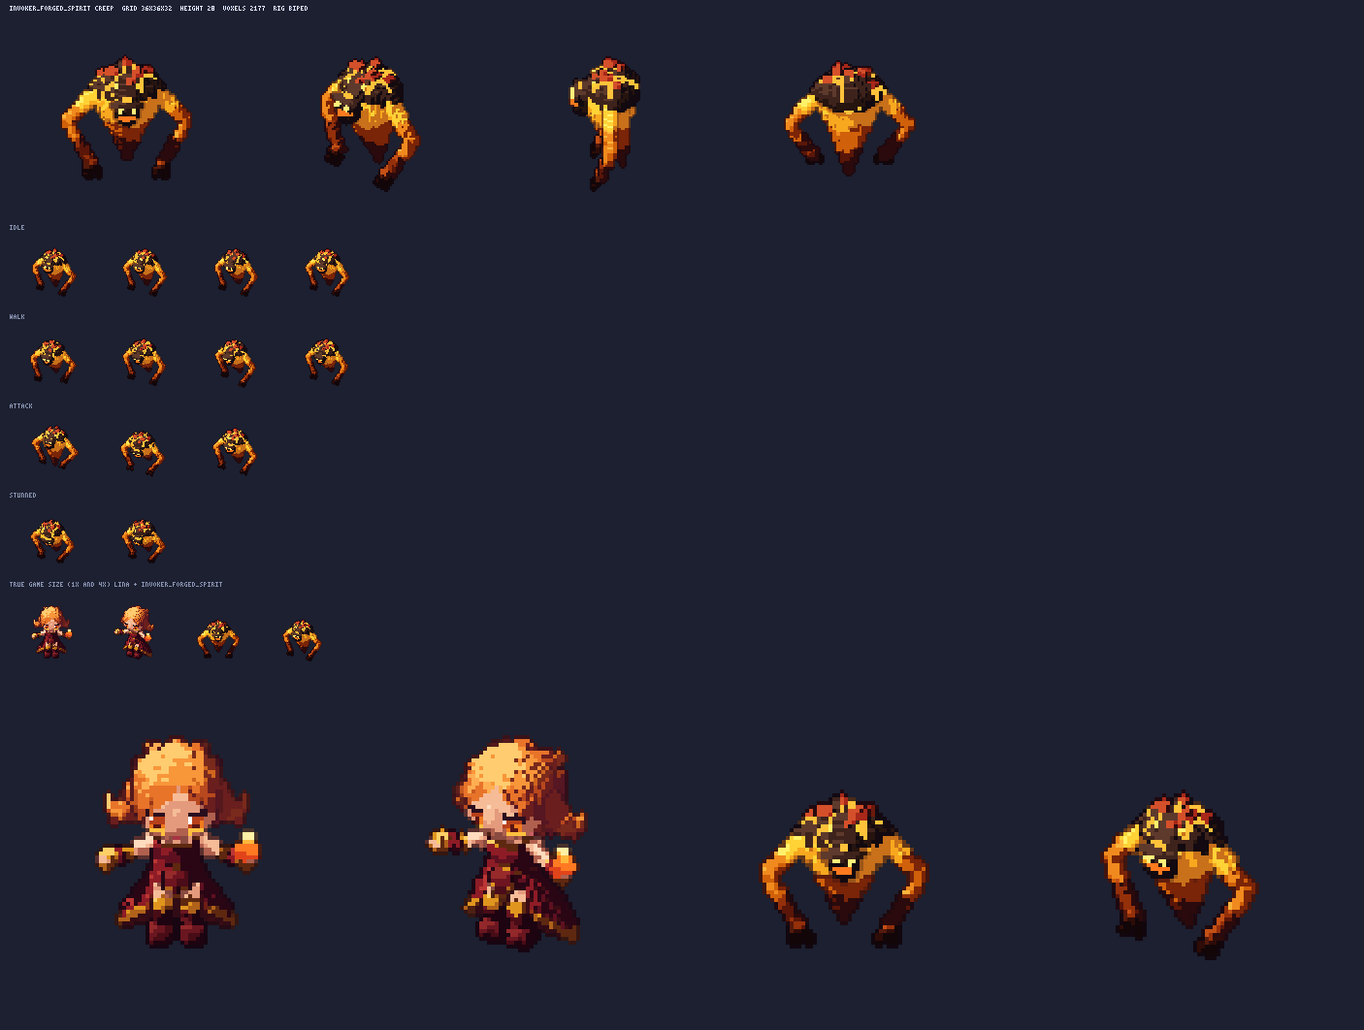
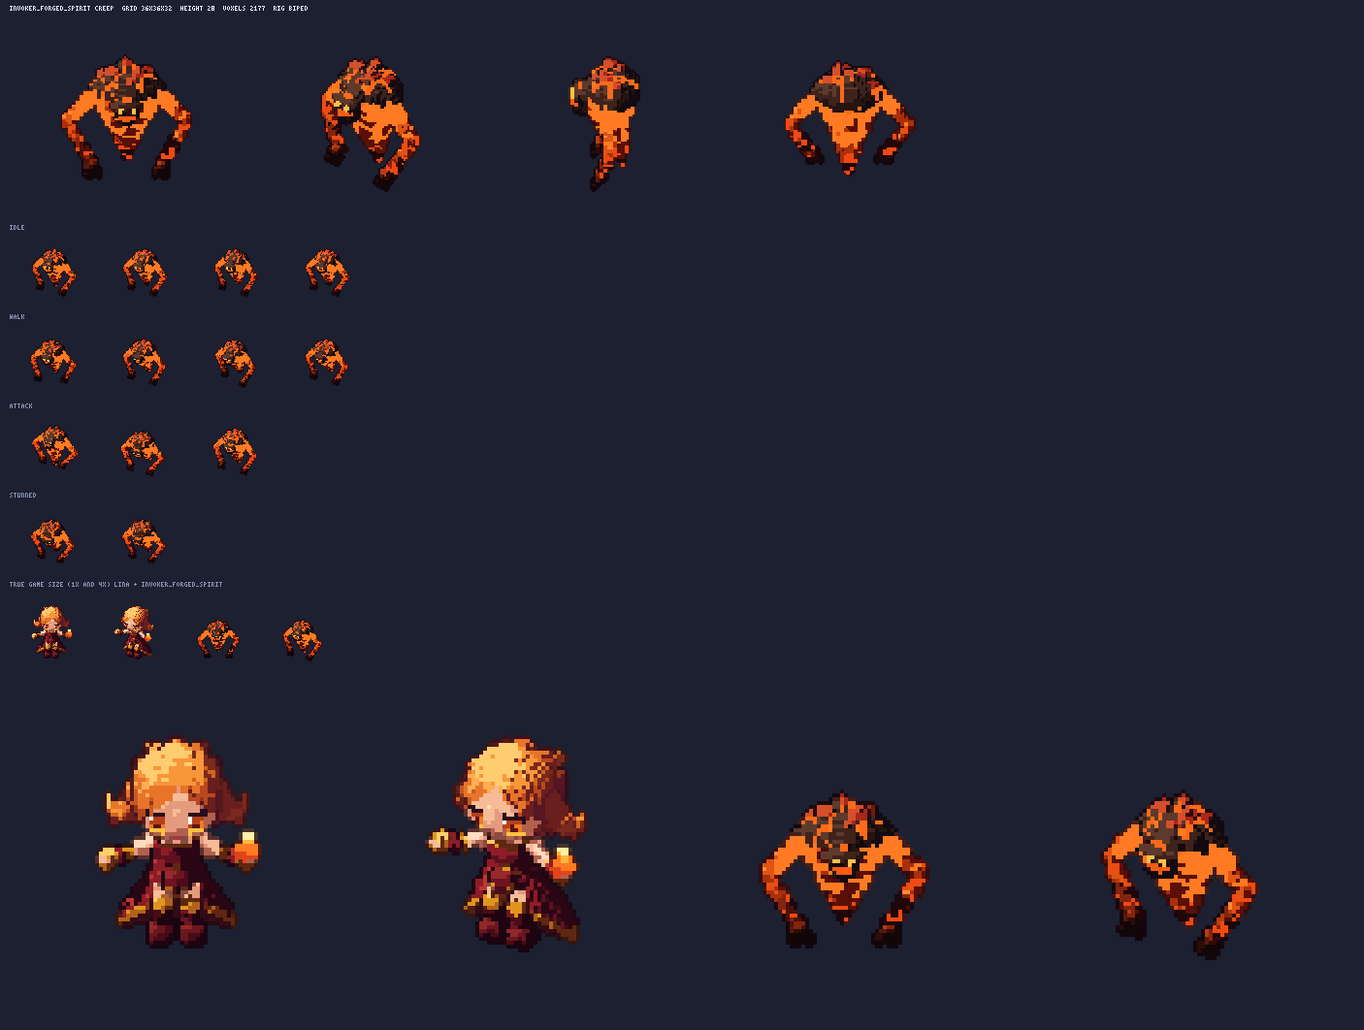
Invoker: blond swept-back mane, lower collar; Forged Spirit: emissive lava body
Invoker mesh 3,090,096 -> 2,749,536 B (limit 3,145,728). Spirit lava core and
veins are emissive (signature tier), mustard ramps gone. Registry `night`
option on voxactors adds emissive gain at night (Spirit 0.25).

diff --git a/shared/vox/heroes/invoker.js b/shared/vox/heroes/invoker.js
@@ -1,8 +1,9 @@
-// Voxel Invoker, a chibi of his Dota 2 model (hand-authored): a bald, pointed-eared head framed by a tall spiky crimson-magenta collar that flares
-// up and back above the head; gold spiked pauldrons; orange-gold sleeves, open hands held in front (conjuring); a cream plastron with gold bands
-// and a gold button strip; a huge cream coat-cape from the shoulders to the floor, open in front over a dark purple-black robe, gold trim on every
-// edge; black boots. Signature reads: crimson collar fan around a bald head, cream cape bell silhouette, gold + orange arms in front, dark robe
-// split. The orbs are FX (client/src/render/fx/status.js), not voxels. Grid 40 x 40 x 48, ~44 voxels tall to the collar points, faces -y.
+// Voxel Invoker, a chibi of his Dota 2 model (hand-authored): pointed-eared head with long golden-blond hair swept back from a high widow's peak
+// into a mane over the cape; a low crimson-magenta collar fan that frames the head at the sides and dips under the hair at the back; gold spiked
+// pauldrons; orange-gold sleeves, open hands held in front (conjuring); a cream plastron with gold bands and a gold button strip; a huge cream
+// coat-cape from the shoulders to the floor, open in front over a dark purple-black robe, gold trim on every edge; black boots. Signature reads:
+// blond swept-back mane, crimson collar fan, cream cape bell silhouette, gold + orange arms in front, dark robe split. The orbs are FX
+// (client/src/render/fx/status.js), not voxels. Grid 40 x 40 x 48, ~38 voxels tall, faces -y.
 import { Vox } from '../vox.js';
 import { useMat } from '../mats.js';
 import { solve } from '../rig.js';
@@ -31,8 +32,9 @@ export function build(p = {}) {
     robe: useMat(v, 'robe', { ramp: ['#100816', '#22142a', '#36223a', '#523a54'] }),
     collar: useMat(v, 'collar', { ramp: ['#2e0420', '#740a3e', '#a01c54', '#c84478'] }),
     collarL: useMat(v, 'collarL', { ramp: ['#3a0626', '#8a1448', '#b82c62', '#e05a88'] }),
-    hair: useMat(v, 'hair', { ramp: ['#4a2a1c', '#8a6034', '#b48a4e', '#dcb874'] }),
-    hairD: useMat(v, 'hairD', { ramp: ['#3a2018', '#6e4828', '#94703e', '#bc9a5e'] }),
+    hair: useMat(v, 'hair', { ramp: ['#6a3e1e', '#b08038', '#d8aa58', '#f2d488'] }),
+    hairL: useMat(v, 'hairL', { ramp: ['#7a4a22', '#c49444', '#e8c070', '#fce4a0'] }),
+    hairD: useMat(v, 'hairD', { ramp: ['#4e2c16', '#8a5e2c', '#b08444', '#d4ac68'] }),
     gold: useMat(v, 'gold', { ramp: ['#5e2c10', '#b06c18', '#e09e2a', '#ffd470'] }),
     sleeve: useMat(v, 'sleeve', { ramp: ['#5a2410', '#b4600e', '#e08c1c', '#ffc056'] }),
     boot: useMat(v, 'boot', { ramp: ['#0c0810', '#1e1420', '#32242e', '#4e3a42'] }),
@@ -80,8 +82,8 @@ export function build(p = {}) {
 
   // ---- the collar: a tall fan flaring up and back around the head, spiky points; crimson-magenta inside (the front read), cream + gold outside
   collar(v, T.torso, {
-    c: [cx, cy + 2.2], z0: 20.4 + U, z1: 39 + U, r0: 4.4, r1: 12.6, flare: 0.95, sy: 0.8, th: 4, lean: 0.12,
-    open0: 62, open1: 86, spikes: 2, spike: 4.2, fill: (dx, dy) => dy > 3.4,
+    c: [cx, cy + 2.2], z0: 20.4 + U, z1: 34 + U, r0: 4.4, r1: 11, flare: 0.8, sy: 0.8, th: 3, lean: 0.12,
+    open0: 62, open1: 70, spikes: 1, phase: -0.5, spike: 6, fill: (dx, dy) => dy > 3.4,
   }, (px, py, pz, f, inner) => (inner ? (f > 0.88 ? M.collarL : M.collar) : f > 0.86 ? M.gold : M.coat));
 
   // ---- arms: orange-gold sleeves with gold cuffs, open hands; gold spiked pauldrons on top
@@ -98,11 +100,25 @@ export function build(p = {}) {
     for (const [ox, oy, oz] of [[2.4, -0.8, 3.4], [3.6, 1, 1.6]]) v.capsule(c, [c[0] + s * ox, c[1] + oy, c[2] + oz], 1, M.gold, 0.35);
   }
 
-  // ---- head: high bald forehead, light-brown hair slicked back from a receding line over the crown, small pointed elf ears; posed by the head
+  // ---- head: skull + long narrow jaw, then the hair: golden blond, parted high in the middle and swept straight back over the crown into a full
+  // mane behind the head that falls to the nape (into the collar); strands run front -> back (streaks by x). Pointed elf ears poke through it.
   const Th = T.head, [hx, hy, hz] = [cx, cy + PROP.headY, PROP.headZ];
-  ell(v, Th, [hx, hy, hz], SKULL, (px, py, pz) => (py > hy + 2.2 - (pz - hz) * 0.62 ? (Math.floor(px) % 3 === 0 ? M.hairD : M.hair) : M.skin));
+  ell(v, Th, [hx, hy, hz], SKULL, M.skin);
   ell(v, Th, [hx, hy + 0.2, hz - 4.6], [3.8, 4.4, 3.4], M.skin);   // long narrow jaw
-  for (const s of [-1, 1]) cap(v, Th, [hx + s * 5.6, hy + 0.8, hz - 0.8], [hx + s * 7.8, hy + 2, hz + 1.8], 1.1, M.skin, 0.35);
+  const strand = (px, py, pz) => { const k = Math.floor((px - hx + 0.5 + Math.max(0, py - hy) * 0.18 * Math.sign(px - hx)) / 2); return [M.hair, M.hairL, M.hair, M.hairD][((k % 4) + 4) % 4]; };
+  const line = px => hz + 4.4 - Math.min(3, Math.abs(px - hx) * 0.55);   // hairline: high widow's peak, lower at the temples
+  const face = (px, py, pz) => py < hy - 1.2 + Math.max(0, hz - pz) * 0.5 && pz < line(px);   // skin window (forehead, face, in front of the ears)
+  const free = (px, py, pz, x, y, z) => { const m = v.get(x, y, z); return !m || m === M.skin; };   // never over the collar: the mane sinks into it
+  ell(v, Th, [hx, hy + 0.7, hz + 0.4], [6.3, 6.5, 7.1], strand, (px, py, pz, x, y, z) => !face(px, py, pz) && pz > hz - 3.4 && free(px, py, pz, x, y, z));
+  ell(v, Th, [hx, hy + 4, hz - 1.6], [6, 4.2, 6.4], strand, (px, py, pz, x, y, z) => py > hy + 1.5 && free(px, py, pz, x, y, z));   // the mane behind
+  // swept-back locks: thick at the crown, tapering to points that flare back past the skull and fall over the collar's back rim (long hair)
+  for (const s of [-4.6, -2.3, 0, 2.3, 4.6]) {
+    const a = [hx + s * 0.8, hy - 2.6, hz + 5.4 - Math.abs(s) * 0.4], b = [hx + s * 1.2, hy + 9.6 - Math.abs(s) * 0.25, hz - 2.6 - Math.abs(s) * 0.5];
+    cap(v, Th, a, b, 2.1, strand, 0.6);
+  }
+  // the fall: the mane lies over the collar's back rim down to the shoulder blades, pointed tips
+  ell(v, Th, [hx, hy + 6.8, hz - 0.6], [5.6, 3.8, 8.2], strand, (px, py, pz) => pz > hz - 7.4 + Math.abs(((px - hx + 40) % 2.4) - 1.2) * 1.6 + Math.abs(px - hx) * 0.35);
+  for (const s of [-1, 1]) cap(v, Th, [hx + s * 5.6, hy + 0.8, hz - 0.8], [hx + s * 8.2, hy + 2.2, hz + 2], 1.15, M.skin, 0.35);
 
   // ---- face, painted on the front-most voxels (follows the posed head): stern brow, small dark eyes, a thin mouth
   const hc = J.head, ox = Math.round(hc[0] - cx), oz = Math.round(hc[2] - hz), ez = Math.round(hz - 2) + oz;   // integer rows (paintFront indexes cells)
@@ -145,4 +161,4 @@ export const ANIMS = {
 };
 
 /** HUD portrait framing (tools/vox/portrait.mjs): idle, face in the upper third with the collar fan behind it. */
-export const PORTRAIT = { pose: ANIMS.idle[0], center: [cx, cy, 30.4], scale: 1.15, fov: 24, sig: '#c8285e', face: [4, 11, 24, 24] };
+export const PORTRAIT = { pose: ANIMS.idle[0], center: [cx, cy, 28], scale: 1.3, fov: 24, sig: '#c8285e', face: [4, 11, 24, 24] };

diff --git a/client/src/art/portraits/invoker.js b/client/src/art/portraits/invoker.js
@@ -1,7 +1,7 @@
 // GENERATED by tools/vox/portrait.mjs (invoker) -- do not edit by hand. Voxel HUD portrait 32x42 (= the 32x42 the HUD shows, 1 art px = 1 u), opaque.
 // Loaded by client/src/art/portraits.js, which swaps it into the sheet's 'portrait' frame unless ?vox=0.
 export default {
-  pal: { '0':'#28051e', '1':'#24071c', '2':'#3e3436', '3':'#49220c', '4':'#f9d6bf', '5':'#0c0611', '6':'#2e0420', '7':'#ca9886', '8':'#552435', '9':'#4c2312', '!':'#141112', '#':'#1e1518', '$':'#331b23', '%':'#d29a7e', '&':'#9a5a4c', '(':'#8e8668', ')':'#5e2c10', '*':'#2c2228', '+':'#f0c2a2', ',':'#341812', '-':'#4c4240', '/':'#b06c18', ':':'#aebcdd', ';':'#e6b89f', '<':'#f9d098', '=':'#e09e2a', '>':'#874a5e', '?':'#4f2d2d', '@':'#3a1a10', 'A':'#740a3e', 'B':'#ac7e54', 'C':'#bb5775', 'D':'#5a2410', 'E':'#eb99a2', 'F':'#a01c54', 'G':'#acbadb', 'H':'#b6b08e', 'I':'#491d12', 'J':'#30292a', 'K':'#221b1f', 'L':'#d26382', 'M':'#ead3ba', 'N':'#7a3e3a', 'O':'#321512', 'P':'#aa764e', 'Q':'#8893ac', 'R':'#3e2323', 'S':'#6f6951', 'T':'#310722', 'U':'#b182c5', 'V':'#a475bd', 'W':'#b82c62', 'X':'#9b8b7d', 'Y':'#a8664e', 'Z':'#ffffff', '[':'#7a2a30', ']':'#f9c78c', '^':'#e08c1c', '_':'#895413', 'a':'#edb761', 'b':'#935064', 'c':'#bebab8', 'd':'#aa4d6d', 'e':'#1f0619', 'f':'#a9b7d9', 'g':'#bcad91', 'h':'#b48a4e', 'i':'#240c10', 'j':'#31262e', 'k':'#bfc1e3', 'l':'#3a3036', 'm':'#9e7769', 'n':'#3b3332', 'o':'#56503e', 'p':'#2d252a', 'q':'#8e896f', 'r':'#3b1b0e', 's':'#796c62', 't':'#534e3d', 'u':'#371a09', 'v':'#b285c7', 'w':'#bfbcbc', 'x':'#d59e58', 'y':'#e08f9b', 'z':'#8a1448', '{':'#afaebc', '|':'#b89367', '}':'#adacba', '~':'#3d221b', '¡':'#a0a1b3', '¢':'#79463f', '£':'#c8866a', '¤':'#b57e6e', '¥':'#efbda2', '¦':'#412025', '§':'#bbb8ba', '¨':'#bebbba', '©':'#b4600e', 'ª':'#bfc2e3', '«':'#bfc2e4', '¬':'#c2a795', '®':'#fcd284', '¯':'#b3907c', '°':'#9395b0', '±':'#261e24', '²':'#6e6650', '³':'#8c4b0b', '´':'#8f8c8e', 'µ':'#100816', '¶':'#09050d' },
+  pal: { '0':'#341812', '1':'#3e3436', '2':'#0c0611', '3':'#5a2410', '4':'#3a2019', '5':'#e09e2a', '6':'#f0c2a2', '7':'#f9d6bf', '8':'#3a1a10', '9':'#c49444', '!':'#141112', '#':'#1e1518', '$':'#331b23', '%':'#9a5a4c', '&':'#5e2c10', '(':'#d29a7e', ')':'#8e8668', '*':'#4c4240', '+':'#2c2228', ',':'#b06c18', '-':'#b08038', '/':'#49220c', ':':'#aebcdd', ';':'#4f2d2d', '<':'#8a5e2c', '=':'#b6b08e', '>':'#30292a', '?':'#ca9886', '@':'#55311c', 'A':'#e8c070', 'B':'#a8664e', 'C':'#7a3e3a', 'D':'#7a4a22', 'E':'#6a3e1e', 'F':'#ac7e54', 'G':'#6f6951', 'H':'#552435', 'I':'#24071c', 'J':'#af8760', 'K':'#28051e', 'L':'#f9d098', 'M':'#491d12', 'N':'#3a3036', 'O':'#2d1815', 'P':'#8a1448', 'Q':'#aa764e', 'R':'#221b1f', 'S':'#d2a86d', 'T':'#f3d0a2', 'U':'#d8aa58', 'V':'#613a1f', 'W':'#740a3e', 'X':'#f5ccb1', 'Y':'#79463f', 'Z':'#bebab8', '[':'#4c2312', ']':'#321512', '^':'#3e2323', '_':'#100816', 'a':'#8e896f', 'b':'#402316', 'c':'#41261a', 'd':'#e6be94', 'e':'#ead3ba', 'f':'#ffffff', 'g':'#acbadb', 'h':'#31262e', 'i':'#7a2a30', 'j':'#f9c78c', 'k':'#e6b89f', 'l':'#b99168', 'm':'#deb679', 'n':'#d26382', 'o':'#bb5775', 'p':'#bdc2cf', 'q':'#b57e6e', 'r':'#e08c1c', 's':'#b4600e', 't':'#56503e', 'u':'#2d252a', 'v':'#3b1b0e', 'w':'#796c62', 'x':'#1a1417', 'y':'#371a09', 'z':'#e6bd7d', '{':'#f8d7ad', '|':'#bebbba', '}':'#310722', '~':'#bfbcbb', '¡':'#b0bedf', '¢':'#bbb8ba', '£':'#a9b7d9', '¤':'#bfc2e3', '¥':'#bfc3e5', '¦':'#fcc471', '§':'#bfc1e3', '¨':'#ffd470', '©':'#9395b0', 'ª':'#261e24', '«':'#6e6650', '¬':'#895413', '®':'#b7b4b6', '¯':'#bdbfe1', '°':'#c2a795', '±':'#8893ac', '²':'#9b8b7d', '³':'#6a6653', '´':'#2c2625', 'µ':'#09050d' },
   face: [4, 11, 24, 24],
   rows: [
     '!!!!!!!!!!!#!#!#!#######!#!#!!!!',
@@ -11,40 +11,40 @@ export default {
     '!!!!!!!#!######$#$#$#$#$######!#',
     '!!!!!!#!####$#$$$$$$$$$$$#$#####',
     '!!!!!#!#!####$#$$$$$$$$$$$#$####',
-    '!!!!#!####$#$$$$8$8$8$8$8$$#$###',
-    '!!!,11111##$#$$$$1$8$8$8$$$$####',
-    '!,,9TTCCE1,,118$1v11,8111,,$$#$#',
-    ',waaCETCbE99UE11ULCC9,ULLx<,#$##',
-    ',c=/dy06>>0FLEeeVWzb69VWWB<,$#$#',
-    '!*f(g>>0666Ad00?000069VA-<,$#$##',
-    '!*:((6>066AA0{|;;;;40FFAXM*$$#$#',
-    '!*:((6>606A0}h+%%%;40FF-XM*$#$##',
-    '!!*2(->>060~h+++%%;;40A-M*$$$#$#',
-    '!!*:(((>00¡++++%%%%;740XM*$$####',
-    '!!#*2((g60+++%%%%%%%7742*$$$$#$#',
-    '!!!*2(((A0++++%%%%&&&742*$#$#$##',
-    '!!!!*G(%++++++%%%%&&&74¢?$$#$###',
-    '!!!!*G(%++++%%%%%%&&&742*$#$####',
-    '!!!!!*G(%%%+%£YYYN&&N¤¥¦$#$#####',
-    '!!!!!*G(%+%+%ZZ@@&&&&Z@i#$####!#',
-    '!!!!#!*:(-%+%@@@@&&&&@@i$######!',
-    '!!!!!!*G((%+%%%&&&&&&74?####!#!#',
-    '!!!!!!#*f(+%%%%&&&&&&4?######!#!',
-    '!!!!!!!*:((%%&&&&&&&74?,,#!#!#!!',
-    '!!!!!!!,,2H(%%&&&NN&72,§<,#!#!#!',
-    '!!!!!!,¨=jH(=%&&&&&72-)<,#!#!!!!',
-    '!!!!!!,9==H(((%&[[[&-)BB9,#!!!!!',
-    '!!!!!,c==/////(()))-))BB<,!!!!!!',
-    '!!!!!*2=//////(()))--))<,!!!#!!!',
-    '!!!!!*:2//////(()))))D]O!!!!!!!!',
-    '!!!!!*:H^^DD)//))))--PP]O!!!!!!!',
-    '!!!!!*:HI^©D-((-)))--DP]O!!!!!!!',
-    '!!!!!*:2ªIID(((-)))--IP<O,!?!!!!',
-    '!!!!!*2k;;42-(-()))--)BBI<?«?!!!',
-    '!!!!*:Jk%7¬9-/_/))3)jl39®=¯74?!!',
-    '!!!!*Q2°%m4±-n²o)3)pl3)³/_&m4R!!',
-    '!!!!KQqJ´rr355po3335553_JKRRR!!!',
-    '!!!!*QSq2J33)555)335µ53s2K!!!!!!',
-    '!!!!KQtSSStn35¶533u555usJK!!!!!!'
+    '!!!!#!####$44OO4444$H$H$H$$#$###',
+    '!!!!!!!#!#4@@bb@zST4cc$H$$$$####',
+    '!!#!#!###4@@@b<<<SSSl{c4H$$$$#$#',
+    '!!0IIIIII@@UU--<<---lmmT4H$$#$##',
+    '!0|nnooP}VAUU--<<---D9JT4O$$$#$#',
+    '!0~5PPPPVVAA---<<EEEDDJJJdO$#$##',
+    '!+:=WWWKpA99---<(((((%EEJdO$$#$#',
+    '!+:=KKWKpAD-E--(((%(%%%ET;$$#$##',
+    '!+:1XXKVAA9----(((%%%%%JdY;$$#$#',
+    '!!+¡=66669D((((((%%%%%?7Y+$$####',
+    '!!+:==)(A99((BBBBC%%%CqY1e+$$#$#',
+    '!!+:==)((996(BBBB%%%%CqY1+#$#$##',
+    '!!!+1=)((6(6(ff88%%%%%f8e+$#$###',
+    '!!!+g)**99(6(8888%%%%%88e+#$####',
+    '!!!!+1*))D6((888%%%%%%?7;#$#####',
+    '!!!!!+g)*D6((((%%%%%%%7;#$####!#',
+    '!!!!#+g)*16((%%%%%%%%?7;$######!',
+    '!!!!!!01))K(((%%%CCC%?7;00##!#!#',
+    '!!!!!0Z51*))((%%%CC%%?10¢L0##!#!',
+    '!!!!!0Z55=)),(%%%%%%%1*&L0!#!#!!',
+    '!!!!00Z55h)))((%iii%*&&FF[0!#!#!',
+    '!!!0Z555,,,,,)))&&&**&&FFL0#!!!!',
+    '!!!!+£5,,,,,,)))&&&**&&&FL0!!!!!',
+    '!!!!+15,,,,,,)))&&&**&3j]0!!!!!!',
+    '!!!!+:113333,,,&&&&&&&QQj]!!#!!!',
+    '!!!!+:1rrs33)))*&&&***3Qj]!!!!!!',
+    '!!!!+:1MMM33)))*&&&***3QL0!!!!!!',
+    '!!!+:1¤X?7M*)))*&&&***3FFL];;!!!',
+    '!!!+1¥6(k7M*))*)&&&**[&&Q¦Mk7;!!',
+    '!!!+1§((?7[**,,,&&&&&hN&3¨5Xk7;!',
+    '!!!+:1©%?7ª**Nt«&&/NNNu&s,¬%?7^!',
+    '!!!R:>®v[vh/_uNt&/&2_2&/,>+^¯°;!',
+    '!!R±aa>>>///2222///222//w>R!^^!!',
+    '!!R>=GaG)G//_222&//2_2//²>R!!!!!',
+    '!!x>aG³GGG´//2µ2//y222y/w>x!!!!!'
   ]
 };

diff --git a/shared/vox/creeps/invoker_forged_spirit.js b/shared/vox/creeps/invoker_forged_spirit.js
@@ -1,7 +1,8 @@
-// Voxel Forged Spirit (Invoker's summon), after the Dota 2 model (hand-authored chibi): no legs. A flame body (bright yellow under the shoulders,
-// orange, then dark red) tapering to a point that trails back above the ground; a hunched crust of dark rock over the shoulders and the head,
-// cracked with glowing seams and studded with red rock; the head thrust forward and down, a glowing mouth and eyes; two very long bowed arms of
-// fire reaching to the ground on dark claws. Signature reads: dark cracked rock hump on a yellow flame, long arms to the ground, no legs.
+// Voxel Forged Spirit (Invoker's summon), after the Dota 2 model (hand-authored chibi): no legs. A molten lava body (emissive red-orange under the
+// shoulders, crusting to lit orange and dark red with glowing veins) tapering to a point that trails back above the ground; a hunched crust of dark
+// rock over the shoulders and the head, cracked with glowing seams and studded with red rock; the head thrust forward and down, a glowing mouth and
+// eyes; two very long bowed arms of lava reaching to the ground on dark claws. Signature reads: dark cracked rock hump on glowing lava, long arms
+// to the ground, no legs.
 // One colour scheme (a summon, no team tint). Grid 36 x 36 x 32, ~28 voxels tall, faces -y. The arms are two-bone IK (claws planted).
 import { Vox } from '../vox.js';
 import { useMat } from '../mats.js';
@@ -30,17 +31,25 @@ function crack(px, py, pz, sc = 0.15) {
 export function build(p = {}) {
   const v = new Vox(36, 36, 32), T = solve('biped', PROP, p).T;
   const M = {
-    fY: useMat(v, 'flameY', { ramp: ['#c8701a', '#f8a81e', '#ffd236', '#fff26a'] }),
-    fO: useMat(v, 'flameO', { ramp: ['#7a2408', '#d0600a', '#f08a1e', '#ffb43c'] }),
-    fR: useMat(v, 'flameR', { ramp: ['#2a0a0c', '#5a1608', '#94300a', '#c45016'] }),
+    lava: useMat(v, 'lava', { emit: '#ff7a22', tier: 'signature', gain: 1.15 }),   // molten core: glows
+    lavaD: useMat(v, 'lavaD', { emit: '#f04a12', tier: 'signature', gain: 1.0 }),   // cooler molten veins lower down
+    fO: useMat(v, 'flameO', { ramp: ['#5a1006', '#a8300a', '#e05414', '#ff8a34'] }),
+    fR: useMat(v, 'flameR', { ramp: ['#200608', '#4c1008', '#84240c', '#b83c14'] }),
     rock: useMat(v, 'rock', { ramp: ['#120a10', '#26140f', '#3e231c', '#5e3a2c'] }),
     rockR: useMat(v, 'rockR', { ramp: ['#300a0c', '#6c1a0b', '#a8281a', '#d4502a'] }),
     claw: useMat(v, 'claw', { ramp: ['#120608', '#2e0c08', '#541a0c', '#7a3016'] }),
-    seam: useMat(v, 'seam', { emit: '#ffc23a', tier: 'signature' }),
-    maw: useMat(v, 'maw', { emit: '#ff7a1e', tier: 'signature' }),
-    eye: useMat(v, 'eyeGlow', { emit: '#fff07a', tier: 'eye' }),
+    seam: useMat(v, 'seam', { emit: '#ff6a1a', tier: 'signature', gain: 1.3 }),
+    maw: useMat(v, 'maw', { emit: '#ff5a14', tier: 'signature', gain: 1.3 }),
+    eye: useMat(v, 'eyeGlow', { emit: '#ffc048', tier: 'eye' }),
   };
-  const flameAt = (pz, px, py) => { const n = Math.sin(px * 0.7) * 0.9 + Math.sin(py * 0.9 + 1) * 0.5; return pz + n > 14 ? M.fY : pz + n > 8 ? M.fO : M.fR; };
+  // molten body: glowing lava over the top, breaking into crusting red-orange flame lower down; molten veins (cell borders) down to the tip
+  const flameAt = (pz, px, py) => {
+    const n = Math.sin(px * 0.7) * 0.9 + Math.sin(py * 0.9 + 1) * 0.5 + Math.sin(pz * 1.3 + px * 0.4) * 0.6, z = pz + n;
+    const k = crack(px, py, pz, 0.22);
+    if (k < 0.1) return z > 8 ? M.lava : M.lavaD;                    // molten veins
+    if (z > 15) return k > 0.32 ? M.fO : M.lava;                       // hot: lava with a few cooling plates (keeps the form shaded)
+    return z > 10 ? (k > 0.22 ? M.fO : M.lava) : z > 5 ? M.fO : M.fR;
+  };
 
   // ---- flame body (torso space): widest under the shoulders, tapering to a point that trails back, ~2 above the ground
   vol(v, T.torso, cx - 8, cy - 7, 1.6, cx + 8, cy + 9, 24, (px, py, pz) => {
@@ -71,8 +80,8 @@ export function build(p = {}) {
     const hd = [cx + s * HAND[0] + s * off[0], cy + HAND[1] + off[1], HAND[2] + off[2]];
     const { mid: el, end } = ik2(sh, hd, ARM[0], ARM[1], [s, 0.2, 0.25]);
     ell(v, null, sh, [2.2, 2.2, 2], crust);                                                    // rock shoulder cap
-    v.capsule(sh, el, 1.7, (px, py, pz, t) => (t < 0.55 ? M.fY : M.fO), 1.25);
-    v.capsule(el, end, 1.25, (px, py, pz, t) => (t < 0.45 ? M.fO : M.fR), 1.15);
+    v.capsule(sh, el, 1.7, (px, py, pz, t) => (t < 0.55 || crack(px, py, pz, 0.3) < 0.1 ? M.lava : M.fO), 1.25);
+    v.capsule(el, end, 1.25, (px, py, pz, t) => (crack(px, py, pz, 0.3) < 0.1 ? M.lavaD : t < 0.45 ? M.fO : M.fR), 1.15);
     ell(v, null, end, [1.5, 1.6, 1.3], M.fR);
     for (const c of [-1, 0, 1]) {                                                                // three long hooked claws, reaching z 0
       const a = add3(end, [c * 0.9, -0.6, -0.4]), tip = [end[0] + c * 1.9 - s * 0.5, end[1] - 2.8 + Math.abs(c) * 0.6, end[2] - 3.2];

diff --git a/client/src/render/voxactors.js b/client/src/render/voxactors.js
@@ -37,12 +37,12 @@ export const CHAR_UNIT = 4.2, WORLD_UNIT = 8.4;   // world units per voxel: char
 export const VOX_UNITS = {
   lina: voxEntry(LINA, { unit: CHAR_UNIT, max: 10 }),
   invoker: voxEntry(INVOKER, { unit: CHAR_UNIT, max: 10 }),
-  invoker_forged_spirit: voxEntry(SPIRIT, { unit: CHAR_UNIT, max: 24 }),   // summon: up to 2 per Invoker (+ Sun Strike shard spirits)
+  invoker_forged_spirit: voxEntry(SPIRIT, { unit: CHAR_UNIT, max: 24, night: 0.25 }),   // summon: up to 2 per Invoker (+ Sun Strike shard spirits); lava glows +25% at night
   // lane creeps: Radiant and Dire are separate models (Dota 2), no team tint
   melee_radiant: voxEntry(MELEE_R, { unit: CHAR_UNIT, max: 64, keys: ['npc_dota_creep_goodguys_melee'] }),
   melee_dire: voxEntry(MELEE_D, { unit: CHAR_UNIT, max: 64, keys: ['npc_dota_creep_badguys_melee'] }),
 };
-/** Registry entry from a model module ({ build, ANIMS, META: { cx, cy, rig } }); o overrides (unit, max, lean, keys, ...). */
+/** Registry entry from a model module ({ build, ANIMS, META: { cx, cy, rig } }); o overrides (unit, max, lean, keys, night = extra emissive gain at full night, ...). */
 export function voxEntry(mod, o = {}) {
   const M = mod.META || {};
   return { build: mod.build, rigOf: mod.rigOf, anims: mod.ANIMS, cx: M.cx, cy: M.cy, unit: CHAR_UNIT, max: 16, lean: M.rig !== 'static', rig: M.rig || 'biped', ...o };
@@ -166,7 +166,7 @@ void main(){
 const FRAG = /* glsl */ `
 precision highp float;
 ${COMMON_GLSL}
-uniform float uRimOn;
+uniform float uRimOn, uNightGlow;
 varying vec3 vW, vN, vFoot, vCol;
 varying float vE;
 varying vec4 vTi, vHi, vMs;
@@ -185,7 +185,7 @@ void main(){
   vec3 L = shadowAmb(sh) + uKeyCol * ((.3 + .55 * max(dot(n, uKeyDir), 0.)) * sh) + pl;   // .3 floor: the side away from the sun stays readable (sprites: flat .55)
   L = min(quantL(L, dp), vec3(1.2));                            // never washes out under stacked lights (sprites clamp the same)
   vec3 col = alb * L;
-  col = mix(col, alb * vTi.z, em);
+  col = mix(col, alb * vTi.z * (1. + uNightGlow * uNight), em);   // registry night: emissives burn a bit hotter at night (lava units)
   vec3 v = normalize(uCamPos - vW);
   float fr = pow(1. - max(dot(n, v), 0.), 3.);
   float kf = smoothstep(-.1, .6, dot(n, uKeyDir)) * mix(.35, 1., sh);
@@ -214,7 +214,7 @@ export function createVoxActors({ scene, uniforms, ground = () => 0 }) {
   const ragU = { value: ragTex }, rags = new Map(), ragSlot = new Array(RAG_SLOTS).fill(null), segBuf = new Float32Array(48), W0 = [0, 0];
   if (voxEnabled) for (const name in VOX_UNITS) {
     const h = VOX_UNITS[name], m = models[name] = { h, anims: {}, built: false, vu: 1, radius: 0, qU: { value: 1 } };
-    const un = { ...uniforms, uPull: { value: 12 }, uOutW: outU, uRimOn: rimU, uLeanTo: leanU, uLeanK: { value: h.lean === false ? 0 : LEAN_K }, uQ: m.qU, uRag: ragU };
+    const un = { ...uniforms, uPull: { value: 12 }, uOutW: outU, uRimOn: rimU, uLeanTo: leanU, uLeanK: { value: h.lean === false ? 0 : LEAN_K }, uQ: m.qU, uRag: ragU, uNightGlow: { value: h.night || 0 } };
     for (const anim in h.anims) m.anims[anim] = h.anims[anim].map((_, i) => {
       const body = new THREE.Mesh(empty, new THREE.ShaderMaterial({ vertexShader: VERT, fragmentShader: FRAG, uniforms: un, side: THREE.FrontSide }));
       const hull = new THREE.Mesh(empty, new THREE.ShaderMaterial({ vertexShader: VERT, fragmentShader: FRAG, uniforms: un, side: THREE.BackSide, defines: { HULL: 1 } }));

diff --git a/docs/VOXEL.md b/docs/VOXEL.md
@@ -78,6 +78,7 @@ Pose channels (all optional): `bob`; `spine` / `head` / `body` `[pitch, yaw, rol
   toward deep purple. `noShadow` on skin (hair shadow makes the face dirty).
 - **Emissive** `{ emit, tier, gain? }`, never shaded. Tiers give the starting gain: `eye` 1.0, `signature` 1.2, `spell` 1.6. A hero may tune its own
   glowing parts with `gain` (Invoker's orbs, Rubick's staff tip, Lina's flames); every gain is capped to `EMIT_RANGE` 0.5-1.8 so bloom never whites out.
+  The registry option `night` (voxactors.js) adds that share of gain to a unit's emissives at full night (Forged Spirit 0.25).
 - `team: true` = tinted per instance (creeps, buildings; never heroes).
 - Library: skin (`skin`, `skinPale`, `skinTan`, `skinDeep`, `skinGreen`, `blush`), metal (`gold`, `silver`, `steel`, `iron`, `bronze`), `leather[L]`,
   cloth (`clothRed` ... `clothBlack`), `wood[Dark]`, `stone`, `bone`, team (`teamCloth`, `teamMetal`), face (`lash`, `pupil`, `mouth`, `shine`, `eyeDot`,
@@ -131,7 +132,7 @@ One director gate per batch, with in-game shots.
 | 0. Foundation | Compact mesher, lazy build, registry, footprint, kit, tiers, team tint, death, CI checks | done |
 | 1. Lane creeps | Melee, ranged, siege: Radiant and Dire are separate models after the Dota 2 ones (no team tint); `max` >= 64 per frame | melee Radiant + Dire drafted, awaiting the director gate |
 | 2. Buildings | Tower, barracks, fort, fountain, shop, lantern, filler; `lean: false`; rubble on destroy | |
-| 3. Heroes | The 12 after Lina | Invoker + Forged Spirit drafted, awaiting the director gate |
+| 3. Heroes | The 12 after Lina | Invoker (blond swept-back mane, low collar) + Forged Spirit (emissive lava body) revised, awaiting the director gate |
 | 4. Neutrals + Roshan | 21 neutrals + Roshan across the 4 rigs | |
 | 5. Trees + clutter | Trees, 15 clutter variants | Drafted, awaiting the director gate. Trees: `shared/vox/world/trees.js` (side = `tileSide`, Dota name = silhouette family); `trees3d.js` greedy instanced, LOD1 + coarse shadow casters, cut = voxel dissolve onto the stump. Clutter + rocks: 13 variants, Radiant / Dire shapes (`shared/vox/world/{clutter,rocks}.js`), greedy-meshed, half-res LOD past 900 from the eye (tufts / ferns stay cubes) |
 | 5b. Cliffs | Stepped stone aprons and wall slabs on the 8.4 cell grid (`shared/vox/world/cliffs.js`, emitted by `terrainGeo`), Radiant / Dire wall tint, merged flat tops; visual only (heights, pathing unchanged) | drafted, awaiting the director gate |
